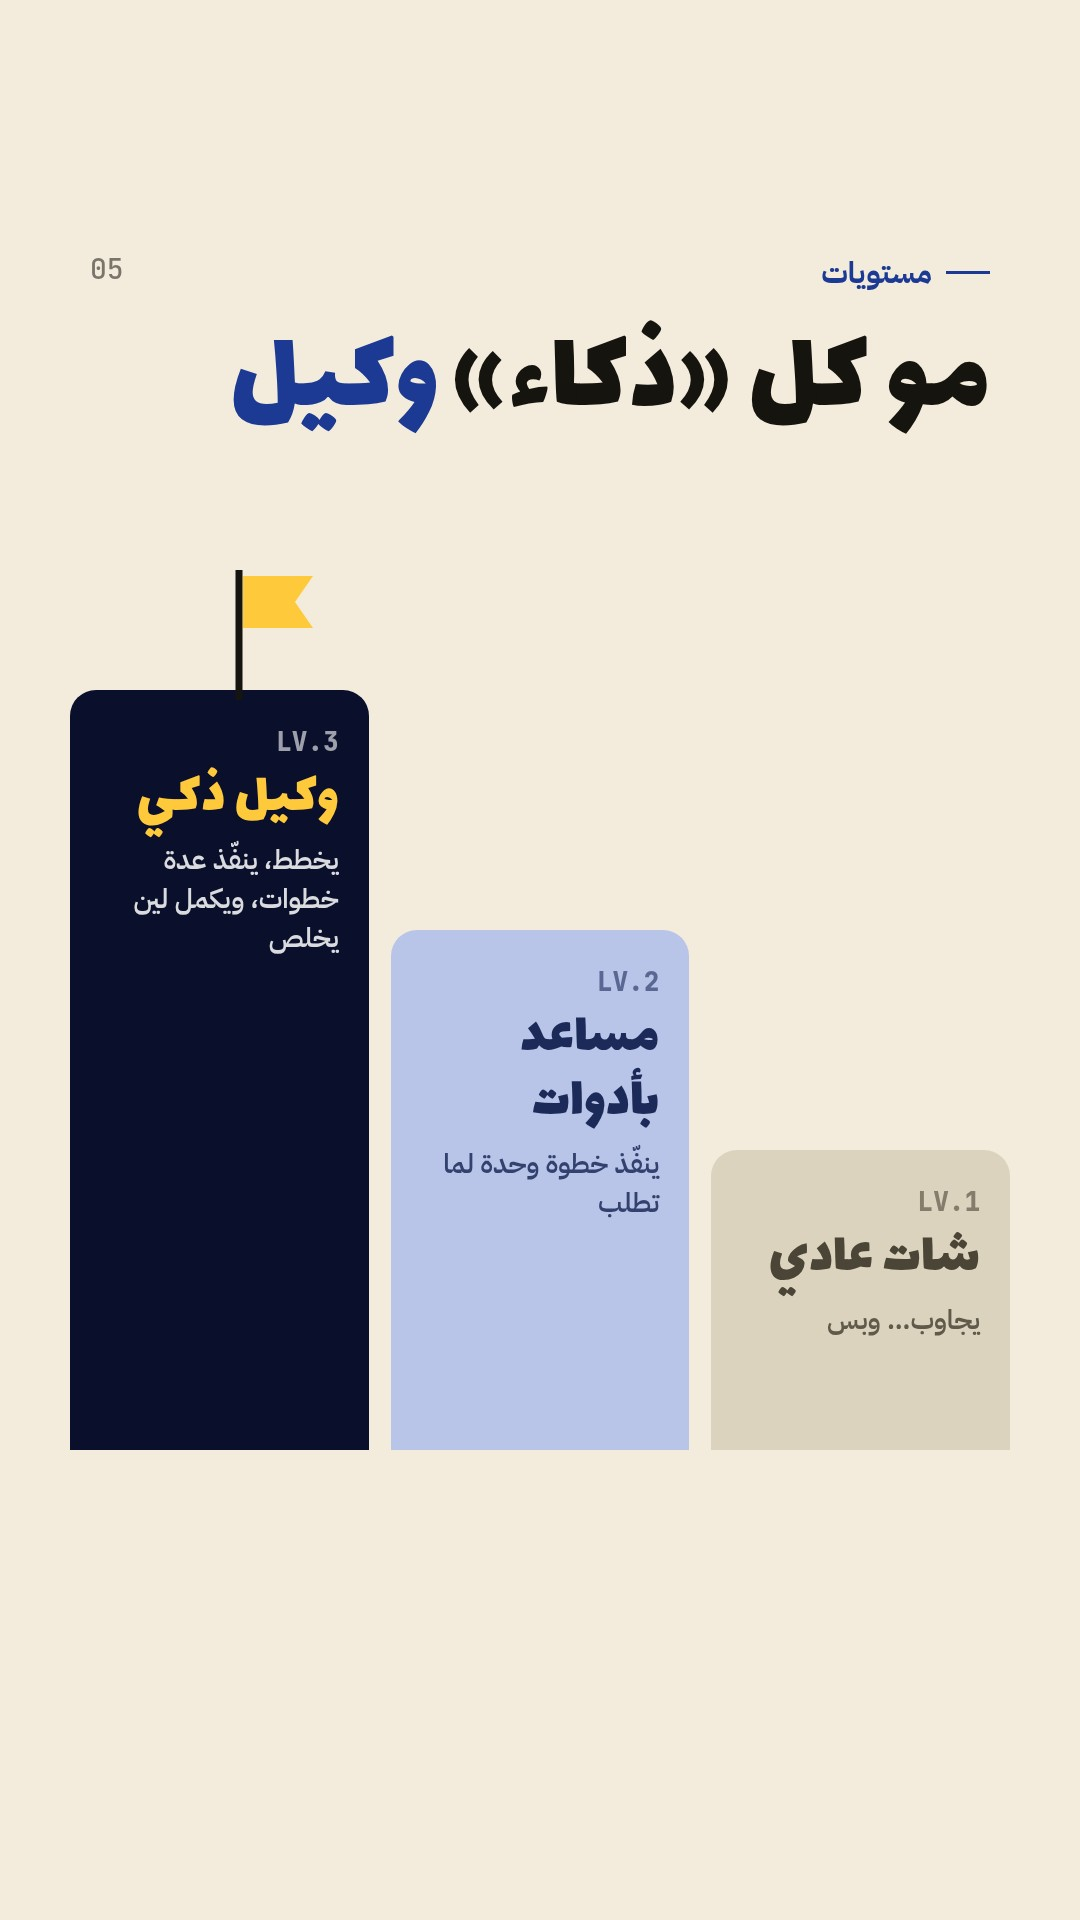
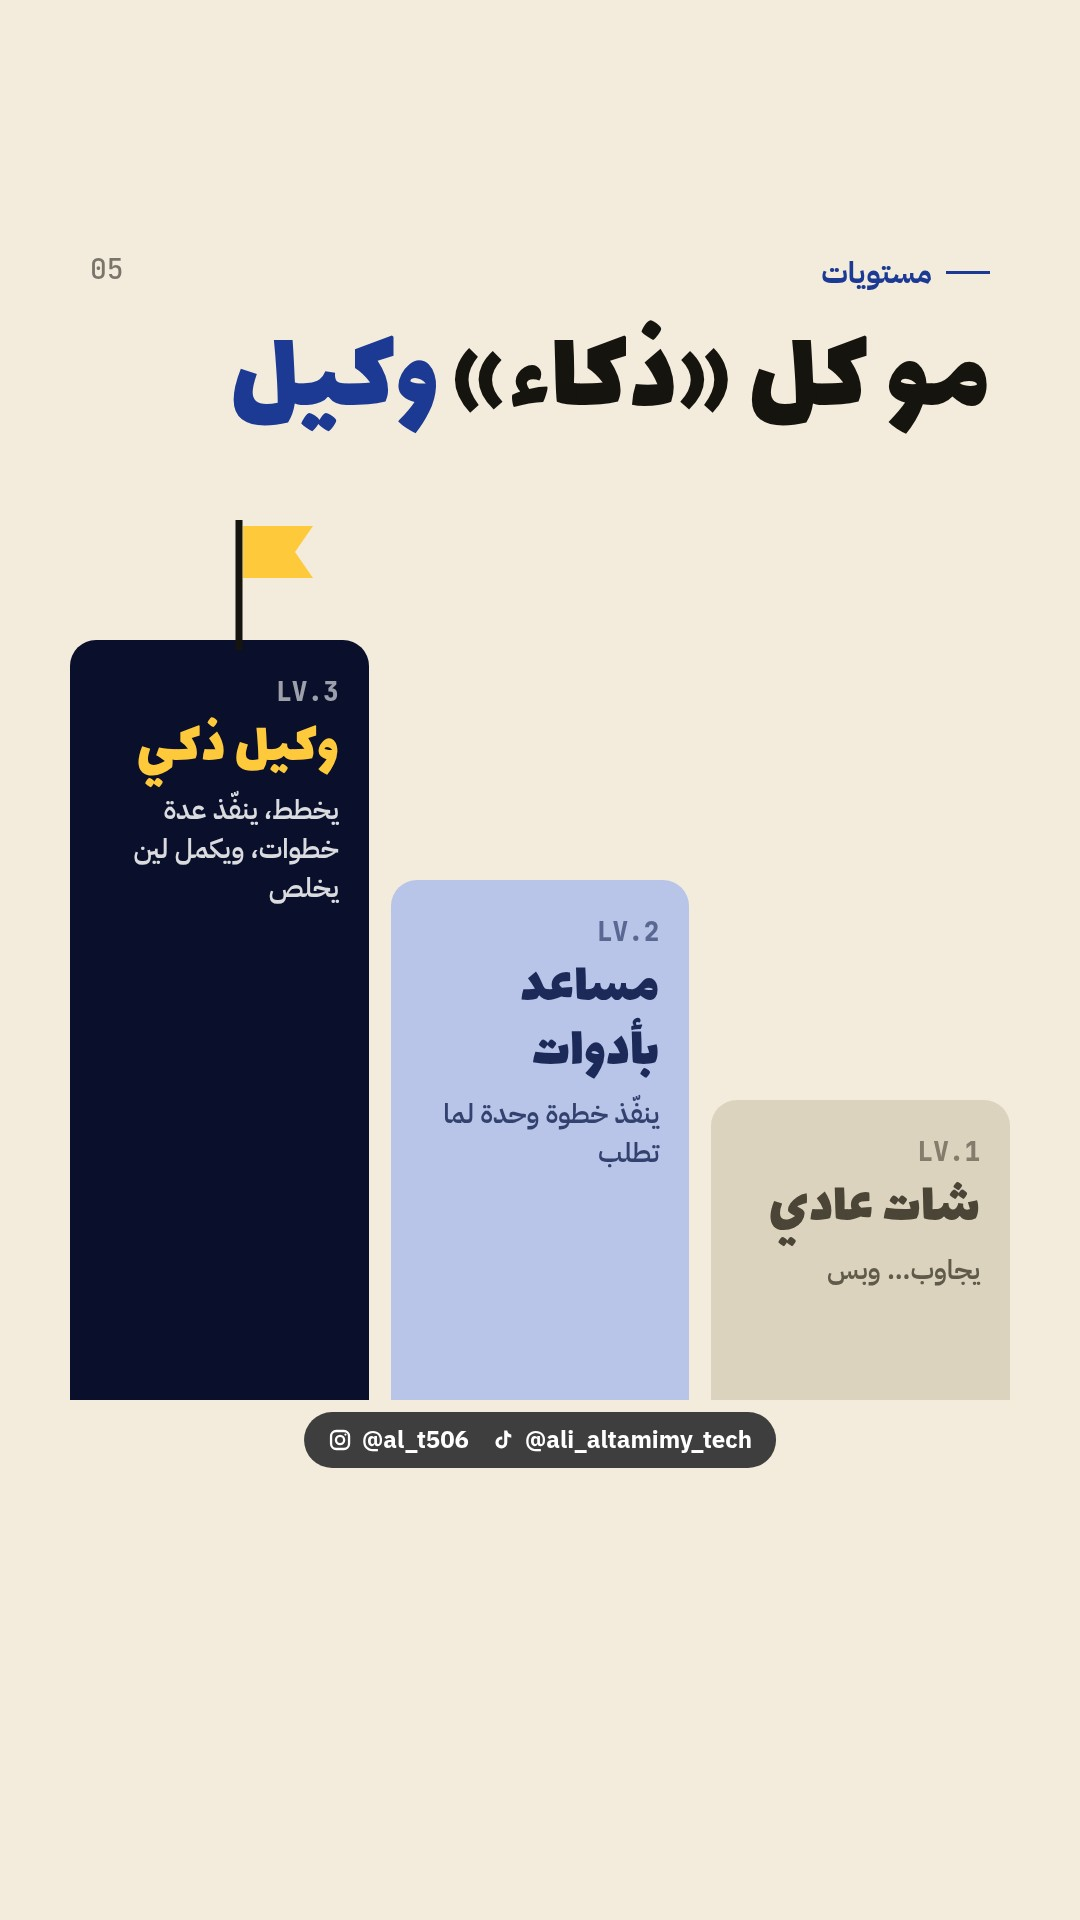
الحسابان في كل شريحة: شريط تلقائي من المولّد + فحص تغطية النص
- render_html.py: يضيف شريط الحسابات لأي شريحة بدون {{HANDLES}} عند y=1412، ويحذّر لو غطّى نصاً
- design.md: محتوى الشرائح ينتهي قبل 1400
- إعادة توليد اليوم ٢٥ واليوم ٣٠ (ترتيب شرائح اليوم ٣٠ لإفساح مكان للشريط)

Claude-Session: https://claude.ai/code/session_01EgEZRcQa5qrBxqbudDi5cV

Changed region(s): [[0.0611, 0.5625, 0.9472, 0.7812], [0.0611, 0.25, 0.3667, 0.5], [0.3361, 0.4375, 0.6417, 0.6562]]

diff --git a/output/2026-09-25/design/design.html b/output/2026-09-25/design/design.html
@@ -48,7 +48,7 @@ body{background:#000;font-family:'IBM Plex Sans Arabic','Cairo',sans-serif;-webk
 .s2 h2{position:absolute;top:320px;right:90px;left:90px;font-size:112px;color:var(--ink)}
 .s2 h2 em{font-style:normal;color:var(--coral)}
 .phones{position:absolute;top:580px;right:70px;left:70px;display:flex;gap:40px;justify-content:center}
-.phone{width:450px;height:800px;border-radius:64px;background:#111;padding:18px;box-shadow:0 40px 80px rgba(40,30,10,.25)}
+.phone{width:450px;height:750px;border-radius:64px;background:#111;padding:18px;box-shadow:0 40px 80px rgba(40,30,10,.25)}
 .phone .scr{width:100%;height:100%;border-radius:48px;overflow:hidden;display:flex;flex-direction:column}
 .phone .top{padding:34px 28px 20px;display:flex;align-items:center;gap:14px;border-bottom:1px solid rgba(0,0,0,.08)}
 .phone .av{width:52px;height:52px;border-radius:50%;display:grid;place-items:center;font:700 26px 'IBM Plex Sans Arabic';color:#fff}
@@ -64,14 +64,14 @@ body{background:#000;font-family:'IBM Plex Sans Arabic','Cairo',sans-serif;-webk
 .mini .ok{display:flex;align-items:center;gap:10px;font:700 28px 'IBM Plex Sans Arabic';color:var(--mint)}
 .mini .t{font:800 50px 'JetBrains Mono';direction:ltr;text-align:right}
 .mini .s{font:600 22px 'IBM Plex Sans Arabic';opacity:.7}
-.verdict{position:absolute;top:1405px;width:450px;text-align:center;font:700 34px 'IBM Plex Sans Arabic'}
+.verdict{position:absolute;top:1348px;width:450px;text-align:center;font:700 34px 'IBM Plex Sans Arabic'}
 
 /* ————— ٣ مخطط هندسي ————— */
 .s3{background:var(--blue);color:#fff}
 .s3 .gridbg{position:absolute;inset:0;background-image:linear-gradient(rgba(255,255,255,.08) 2px,transparent 2px),linear-gradient(90deg,rgba(255,255,255,.08) 2px,transparent 2px),linear-gradient(rgba(255,255,255,.04) 1px,transparent 1px),linear-gradient(90deg,rgba(255,255,255,.04) 1px,transparent 1px);background-size:120px 120px,120px 120px,30px 30px,30px 30px}
 .s3 h2{position:absolute;top:320px;right:90px;font-size:118px}
 .s3 h2 em{font-style:normal;color:var(--yellow)}
-.core{position:absolute;top:790px;left:390px;width:300px;height:300px;border-radius:50%;border:4px solid #fff;display:grid;place-items:center;
+.core{position:absolute;top:750px;left:390px;width:300px;height:300px;border-radius:50%;border:4px solid #fff;display:grid;place-items:center;
   background:radial-gradient(circle,#3558C8,#1C3A94 70%)}
 .core:before{content:"";position:absolute;inset:-34px;border:3px dashed rgba(255,255,255,.5);border-radius:50%}
 .core span{font-family:'Lalezar';font-size:64px}
@@ -105,7 +105,7 @@ body{background:#000;font-family:'IBM Plex Sans Arabic','Cairo',sans-serif;-webk
 .s5{background:var(--paper)}
 .s5 h2{position:absolute;top:320px;right:90px;left:90px;font-size:116px;color:var(--ink)}
 .s5 h2 em{font-style:normal;color:var(--blue)}
-.stair{position:absolute;bottom:470px;left:70px;right:70px;height:820px;display:flex;align-items:flex-end;gap:22px}
+.stair{position:absolute;bottom:520px;left:70px;right:70px;height:780px;display:flex;align-items:flex-end;gap:22px}
 .step{flex:1;border-radius:26px 26px 0 0;padding:34px 30px;display:flex;flex-direction:column;justify-content:flex-start;position:relative}
 .step .lv{font:800 26px 'JetBrains Mono';opacity:.6;direction:ltr;text-align:right}
 .step .n{font-family:'Lalezar';font-size:58px;line-height:1.1;margin-top:8px}
@@ -179,7 +179,7 @@ body{background:#000;font-family:'IBM Plex Sans Arabic','Cairo',sans-serif;-webk
   background:radial-gradient(circle at 35% 30%,#FF9A85,var(--coral) 55%,#B23A22);box-shadow:0 6px 10px rgba(0,0,0,.45)}
 .s6 .c1{left:450px;right:90px}
 .s6 .c2{top:1050px}
-.s6 .formula{top:1372px}
+.s6 .formula{top:1318px}
 </style>
 </head>
 <body>
@@ -252,16 +252,16 @@ body{background:#000;font-family:'IBM Plex Sans Arabic','Cairo',sans-serif;-webk
   <h2 class="disp">تشريح <em>الوكيل</em></h2>
   <svg style="position:absolute;inset:0" width="1080" height="1920">
     <g stroke="rgba(255,255,255,.7)" stroke-width="3" fill="none" stroke-dasharray="10 8">
-      <path d="M470 840 L360 730"/><path d="M610 840 L720 730"/><path d="M470 1040 L360 1150"/><path d="M610 1040 L720 1150"/>
+      <path d="M470 800 L360 690"/><path d="M610 800 L720 690"/><path d="M470 1000 L360 1110"/><path d="M610 1000 L720 1110"/>
     </g>
-    <g fill="#FFC93C"><circle cx="360" cy="730" r="9"/><circle cx="720" cy="730" r="9"/><circle cx="360" cy="1150" r="9"/><circle cx="720" cy="1150" r="9"/></g>
+    <g fill="#FFC93C"><circle cx="360" cy="690" r="9"/><circle cx="720" cy="690" r="9"/><circle cx="360" cy="1110" r="9"/><circle cx="720" cy="1110" r="9"/></g>
   </svg>
   <div class="core"><span>الوكيل</span></div>
-  <div class="part" style="top:500px;right:90px"><div class="no">01</div><div class="ttl">العقل</div><div class="d">نموذج يفكّر ويخطط الخطوات</div></div>
-  <div class="part" style="top:500px;left:60px;text-align:left"><div class="no" style="text-align:left">02</div><div class="ttl">اليدين</div><div class="d">أدوات: بحث، إيميل، تقويم</div></div>
-  <div class="part" style="top:1165px;right:90px"><div class="no">03</div><div class="ttl">البوصلة</div><div class="d">هدف واضح ومتى يوقف</div></div>
-  <div class="part" style="top:1165px;left:60px;text-align:left"><div class="no" style="text-align:left">04</div><div class="ttl">المحرّك</div><div class="d">يجرّب ويصحح لين يخلص</div></div>
-  <div class="foot" style="top:1360px">شل أي جزء… ويرجع <em>مجرد شات</em></div>
+  <div class="part" style="top:470px;right:90px"><div class="no">01</div><div class="ttl">العقل</div><div class="d">نموذج يفكّر ويخطط الخطوات</div></div>
+  <div class="part" style="top:470px;left:60px;text-align:left"><div class="no" style="text-align:left">02</div><div class="ttl">اليدين</div><div class="d">أدوات: بحث، إيميل، تقويم</div></div>
+  <div class="part" style="top:1120px;right:90px"><div class="no">03</div><div class="ttl">البوصلة</div><div class="d">هدف واضح ومتى يوقف</div></div>
+  <div class="part" style="top:1120px;left:60px;text-align:left"><div class="no" style="text-align:left">04</div><div class="ttl">المحرّك</div><div class="d">يجرّب ويصحح لين يخلص</div></div>
+  <div class="foot" style="top:1296px">شل أي جزء… ويرجع <em>مجرد شات</em></div>
 </section>
 
 <!-- ٤ سجل المهمة -->
@@ -310,7 +310,7 @@ body{background:#000;font-family:'IBM Plex Sans Arabic','Cairo',sans-serif;-webk
 </section>
 
 <!-- ٧ المتابعة: تذكرتك -->
-<section class="slide s7">
+<section class="slide s7" data-handles="off">
   <div class="stars"></div>
   <h2 class="disp">خذ <em>مقعدك</em> في الرحلة</h2>
   <div class="pass">

diff --git a/.claude/skills/tiktok-ai-reel/render_html.py b/.claude/skills/tiktok-ai-reel/render_html.py
@@ -9,6 +9,10 @@
   Readex Pro · JetBrains Mono · Space Grotesk) — تعمل بدون إنترنت.
 - {{AVATAR}} ← صورة علي المقصوصة (data URI يوضع في src).
 - {{HANDLES}} ← حسابي تيك توك وانستقرام بأيقوناتهما (تنسّقهما أنت بحاوية).
+- الحسابان في **كل شريحة**: أي شريحة ما فيها {{HANDLES}} يُضاف لها شريط صغير تلقائياً
+  عند y=1412 (آخر المنطقة الآمنة). خلّ محتوى الشرائح ينتهي قبل 1400.
+  data-hpos="1300" على الـ section يغيّر مكانه · data-handles="light" شريط فاتح للخلفيات الداكنة جداً
+  · data-handles="off" يلغيه. المولّد يحذّر لو الشريط غطّى أي نص.
 - صور محلية: <img src="assets/x.jpg"> أو url('assets/x.jpg') بمسار نسبي لملف
   الـ HTML — تُضمَّن تلقائياً. نزّل الصور أولاً إلى $D/assets/ (Unsplash/Pexels).
 - المنطقة الآمنة لتيك توك: لا نص في أعلى 240px ولا أسفل آخر 450px.
@@ -90,6 +94,30 @@ def inline_local(html, base):
     return re.sub(r"""(url\(['"]?)([^'")]+)(['"]?\))""", sub, html)
 
 
+AUTO_JS = """([hh]) => {
+  const out = [];
+  document.querySelectorAll('section.slide').forEach((sl, i) => {
+    if (sl.querySelector('.hf-so') || sl.dataset.handles === 'off') return;
+    const d = document.createElement('div');
+    d.className = 'hf-auto' + (sl.dataset.handles === 'light' ? ' hf-light' : '');
+    d.style.top = (sl.dataset.hpos || 1412) + 'px';
+    d.setAttribute('data-safe', 'ignore');
+    d.innerHTML = hh; sl.appendChild(d);
+    const r = d.getBoundingClientRect();
+    const w = document.createTreeWalker(sl, NodeFilter.SHOW_TEXT); let n;
+    while ((n = w.nextNode())) {
+      if (!n.textContent.trim() || d.contains(n)) continue;
+      const rg = document.createRange(); rg.selectNodeContents(n);
+      for (const b of rg.getClientRects()) {
+        if (b.right > r.left && b.left < r.right && b.bottom > r.top && b.top < r.bottom) {
+          out.push({slide: i + 1, text: n.textContent.trim().slice(0, 40)}); break; }
+      }
+    }
+  });
+  return out;
+}"""
+
+
 def handles_html():
     return "".join(f'<span class="hf-so">{ic}<b>{h}</b></span>'
                    for ic, h in ((R.TT_ICON, "@ali_altamimy_tech"), (R.IG_ICON, R.INSTA)))
@@ -101,7 +129,11 @@ async def main(src, outdir):
     html = inline_local(html, pathlib.Path(src).parent)
     html = html.replace("{{AVATAR}}", R.avatar_uri() or "").replace("{{HANDLES}}", handles_html())
     base = (".hf-so{display:inline-flex;align-items:center;gap:.4em;direction:ltr;unicode-bidi:isolate;"
-            "white-space:nowrap}.hf-so svg{width:1em;height:1em;flex:none}.hf-so b{font-weight:inherit}")
+            "white-space:nowrap}.hf-so svg{width:1em;height:1em;flex:none}.hf-so b{font-weight:inherit}"
+            ".hf-auto{position:absolute;left:50%;transform:translateX(-50%);display:flex;gap:22px;align-items:center;"
+            "padding:10px 24px;border-radius:999px;background:rgba(18,19,22,.8);color:#fff;z-index:50;"
+            "font:700 24px 'IBM Plex Sans Arabic',sans-serif;white-space:nowrap}"
+            ".hf-auto.hf-light{background:rgba(255,255,255,.92);color:#121316}")
     faces = f"<style>{R.all_faces()}\n{extra_faces()}\n{base}</style>"
     html = html.replace("</head>", faces + "</head>", 1)
     outdir = pathlib.Path(outdir)
@@ -117,7 +149,10 @@ async def main(src, outdir):
         await page.set_content(html, wait_until="load")
         await page.evaluate("document.fonts.ready")
         n = await page.evaluate("document.querySelectorAll('section.slide').length")
+        cover = await page.evaluate(AUTO_JS, [handles_html()])
         warns = await page.evaluate(CHECK_JS, [SAFE_TOP, SAFE_BOTTOM])
+        warns += [dict(slide=c["slide"], text=c["text"], why="شريط الحسابات يغطيه — حرّك النص أو data-hpos")
+                  for c in cover]
         for i in range(n):
             el = page.locator("section.slide").nth(i)
             p = outdir / f"slide_{i+1:02d}.jpg"

diff --git a/.claude/skills/tiktok-ai-reel/references/design.md b/.claude/skills/tiktok-ai-reel/references/design.md
@@ -104,6 +104,11 @@ HTML/CSS تكتبه أنت لكل موضوع.
 - **آخر شريحة:** فيها صورة علي `{{AVATAR}}` واسمه «علي التميمي» و `{{HANDLES}}`،
   مصممة **ضمن عالم استعارة اليوم**. مثلاً: تذكرة، بطاقة موظف، إيصال، ختم.
 - **الغلاف:** يحتوي `{{HANDLES}}` بحجم صغير وواضح.
+- **الحسابان في كل شريحة (طلب المستخدم):** أي شريحة ما فيها `{{HANDLES}}` يضيف لها المولّد شريطاً صغيراً
+  تلقائياً عند y=1412. **خلّ محتوى كل شريحة ينتهي قبل y=1400**، والمولّد يحذّر لو الشريط غطّى نص.
+  - لو تبي تحرّك الشريط: `data-hpos` على الـ section.
+  - للخلفيات الداكنة جداً: `data-handles="light"`.
+  - لو الشريحة فيها الحسابات بتصميمها الخاص: `data-handles="off"`.
 - **الشريحة الأولى:** فيها تلميح «اسحب ←».
 
 ---
